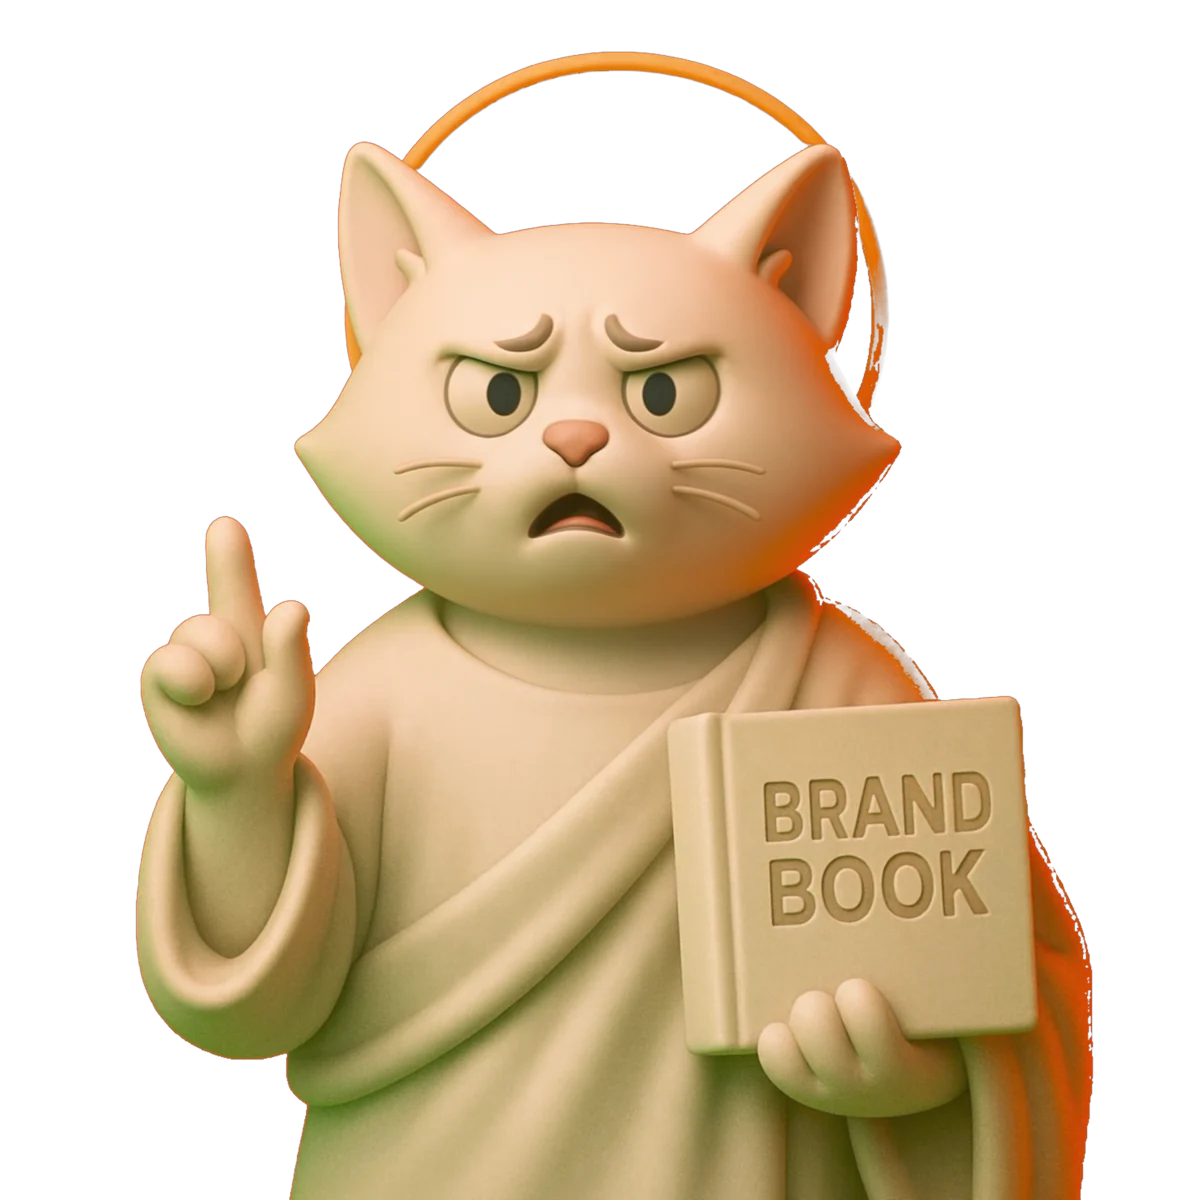
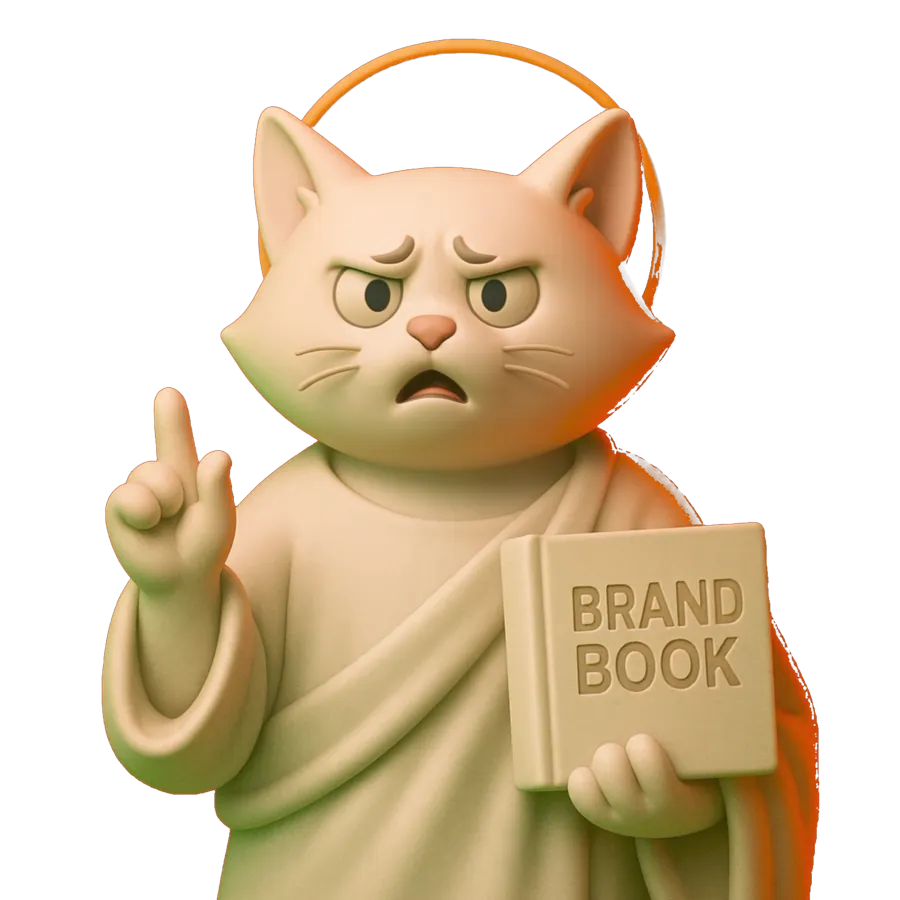
L2 landing, герой: кіт повертається плавно
- 16 поз по колу замість 8 (крок 22.5°) + центральна, 900x900 по 45 КБ
- кут до курсора згладжується (наздоганяння 0.2 за кадр), тому голова
  не смикається на межах секторів
- зміна пози через проявлення другого шару за 170 мс; якщо курсор
  рухається далі, остання поза застосовується після поточного переходу

diff --git a/landings/l2-brendbuk-editorial/js/main.js b/landings/l2-brendbuk-editorial/js/main.js
@@ -127,56 +127,90 @@
 
 
   /* ---------- 2b. Кіт у герої стежить за курсором ----------------------- */
-  /* Дев'ять кадрів з відео: центр і вісім напрямків. За позицією курсора
-     відносно голови вибираємо сектор і міняємо кадр. Тільки для мишей:
-     на тачі наведення немає, там лишається статичний центральний кадр. */
+  /* 16 поз із відео по колу + центральна. Кут до курсора згладжуємо, щоб
+     голова не смикалась, а поза змінюється через проявлення другого шару. */
   function initHeroCat() {
-    var cat = document.getElementById('heroCat');
-    if (!cat || reduced.matches) return;
+    var wrap = document.getElementById('heroCat');
+    if (!wrap || reduced.matches) return;
     if (!window.matchMedia('(hover: hover) and (pointer: fine)').matches) return;
 
-    var DIRS = ['right', 'down-right', 'down', 'down-left', 'left', 'up-left', 'up', 'up-right'];
-    var base = 'images/hero/cat/';
-    var current = 'center';
-    var pending = null;
-    var frame = 0;
+    var base = wrap.querySelector('.hero__cat-img');
+    var next = wrap.querySelector('.hero__cat-img--next');
+    if (!base || !next) return;
 
-    // решту кадрів тягнемо у простої, щоб не конкурувати з першим екраном
+    var BASE_URL = 'images/hero/cat/';
+    var FADE = 170;
+    // d04 і d06 — ті самі кадри, що d03 і d05 (кіт у відео не дивиться точно вниз)
+    var SECTORS = ['d00','d01','d02','d03','d03','d05','d05','d07',
+                   'd08','d09','d10','d11','d12','d13','d14','d15'];
+
+    var shown = 'center';
+    var fading = false;
+    var target = null;      // {x, y} курсора
+    var ang = null;         // згладжений кут, градуси
+    var raf = 0;
+
     var preload = function () {
-      DIRS.forEach(function (d) { new Image().src = base + d + '.webp'; });
+      var seen = {};
+      SECTORS.forEach(function (n) {
+        if (seen[n]) return; seen[n] = 1;
+        new Image().src = BASE_URL + n + '.webp';
+      });
     };
     if (window.requestIdleCallback) window.requestIdleCallback(preload, { timeout: 2500 });
     else window.setTimeout(preload, 1500);
 
-    var set = function (name) {
-      if (name === current) return;
-      current = name;
-      cat.src = base + name + '.webp';
+    var queued = null;
+    var show = function (name) {
+      if (name === shown) { queued = null; return; }
+      if (fading) { queued = name; return; }   // домалюємо після поточного проявлення
+      fading = true;
+      next.src = BASE_URL + name + '.webp';
+      var run = function () {
+        next.style.transition = 'opacity ' + FADE + 'ms linear';
+        next.style.opacity = '1';
+        window.setTimeout(function () {
+          base.src = BASE_URL + name + '.webp';
+          next.style.transition = 'none';
+          next.style.opacity = '0';
+          shown = name;
+          fading = false;
+          if (queued && queued !== shown) { var q = queued; queued = null; show(q); }
+        }, FADE + 20);
+      };
+      if (next.decode) next.decode().then(run).catch(run);
+      else window.setTimeout(run, 30);
     };
 
-    var apply = function () {
-      frame = 0;
-      if (!pending) return;
-      var r = cat.getBoundingClientRect();
-      // голова — приблизно 23% від верху картинки, по центру
-      var hx = r.left + r.width * 0.51;
-      var hy = r.top + r.height * 0.23;
-      var dx = pending.x - hx;
-      var dy = pending.y - hy;
+    var tick = function () {
+      raf = 0;
+      if (!target) return;
+      var r = wrap.getBoundingClientRect();
+      var hx = r.left + r.width * 0.51;      // голова: 51% ширини
+      var hy = r.top + r.height * 0.23;      // і 23% від верху
+      var dx = target.x - hx, dy = target.y - hy;
       var dist = Math.sqrt(dx * dx + dy * dy);
-      if (dist < r.width * 0.18) { set('center'); return; }   // курсор майже на морді
-      var ang = Math.atan2(dy, dx) * 180 / Math.PI;           // 0 = праворуч
-      var idx = Math.round(((ang + 360) % 360) / 45) % 8;
-      set(DIRS[idx]);
+
+      if (dist < r.width * 0.16) { show('center'); return; }
+
+      var want = Math.atan2(dy, dx) * 180 / Math.PI;
+      if (ang === null) ang = want;
+      var diff = ((want - ang + 540) % 360) - 180;   // найкоротший шлях
+      ang += diff * 0.2;                             // «наздоганяння»
+      show(SECTORS[Math.round(((ang % 360) + 360) % 360 / 22.5) % 16]);
+
+      if (Math.abs(diff) > 1.5) raf = window.requestAnimationFrame(tick);
     };
 
     window.addEventListener('pointermove', function (e) {
       if (e.pointerType === 'touch') return;
-      pending = { x: e.clientX, y: e.clientY };
-      if (!frame) frame = window.requestAnimationFrame(apply);
+      target = { x: e.clientX, y: e.clientY };
+      if (!raf) raf = window.requestAnimationFrame(tick);
     }, { passive: true });
 
-    document.addEventListener('mouseleave', function () { set('center'); });
+    document.addEventListener('mouseleave', function () {
+      target = null; ang = null; show('center');
+    });
   }
 
   /* ---------- 3. Поява блоків при скролі -------------------------------- */

diff --git a/landings/l2-brendbuk-editorial/index.html b/landings/l2-brendbuk-editorial/index.html
@@ -19,10 +19,10 @@
 <!-- Шрифти: локальні woff2 (≈23 КБ кожен), font-display:swap — див. css/tokens.css.
      Preload навмисно не використовуємо: CSS блокує рендер і так, а подвійне
      завантаження файлу коштувало б дорожче за виграш. -->
-<link rel="stylesheet" href="css/tokens.css?v=187">
-<link rel="stylesheet" href="css/base.css?v=187">
-<link rel="stylesheet" href="css/components.css?v=187">
-<link rel="stylesheet" href="css/sections.css?v=187">
+<link rel="stylesheet" href="css/tokens.css?v=190">
+<link rel="stylesheet" href="css/base.css?v=190">
+<link rel="stylesheet" href="css/components.css?v=190">
+<link rel="stylesheet" href="css/sections.css?v=190">
 <script>document.documentElement.classList.remove('no-js');</script>
 
 <script type="application/ld+json">
@@ -165,7 +165,10 @@
     <span class="hero__letter hero__letter--r" aria-hidden="true"></span>
     <span class="hero__letter hero__letter--k" aria-hidden="true"></span>
 
-    <img class="hero__cutout" id="heroCat" src="images/hero/cat/center.webp" alt="" width="1200" height="1200" fetchpriority="high" decoding="async">
+    <div class="hero__cutout hero__cat" id="heroCat">
+      <img class="hero__cat-img" src="images/hero/cat/center.webp" alt="" width="900" height="900" fetchpriority="high" decoding="async">
+      <img class="hero__cat-img hero__cat-img--next" alt="" aria-hidden="true" decoding="async">
+    </div>
 
     <p class="hero__lead">Брендбук — це коли кожен елемент бренду працює як частина цілого, формуючи сильне перше враження, впізнаваність і довіру</p>
 
@@ -1021,6 +1024,6 @@
 
 
 
-<script src="js/main.js?v=187" defer></script>
+<script src="js/main.js?v=190" defer></script>
 </body>
 </html>

diff --git a/landings/l2-brendbuk-editorial/css/sections.css b/landings/l2-brendbuk-editorial/css/sections.css
@@ -89,6 +89,14 @@
   }
 }
 
+/* кіт із двох шарів: нижній — поточна поза, верхній проявляється,
+   коли кіт повертає голову за курсором */
+.hero__cat{line-height:0;}
+/* до 768 кіт у потоці — там шару потрібна своя система координат */
+@media only screen and (max-width:767px){ .hero__cat{position:relative;} }
+.hero__cat-img{display:block;width:100%;height:auto;}
+.hero__cat-img--next{position:absolute;left:0;top:0;width:100%;opacity:0;}
+
 /* ---- лід ---- */
 .hero__lead{
   margin-top:6vw;
